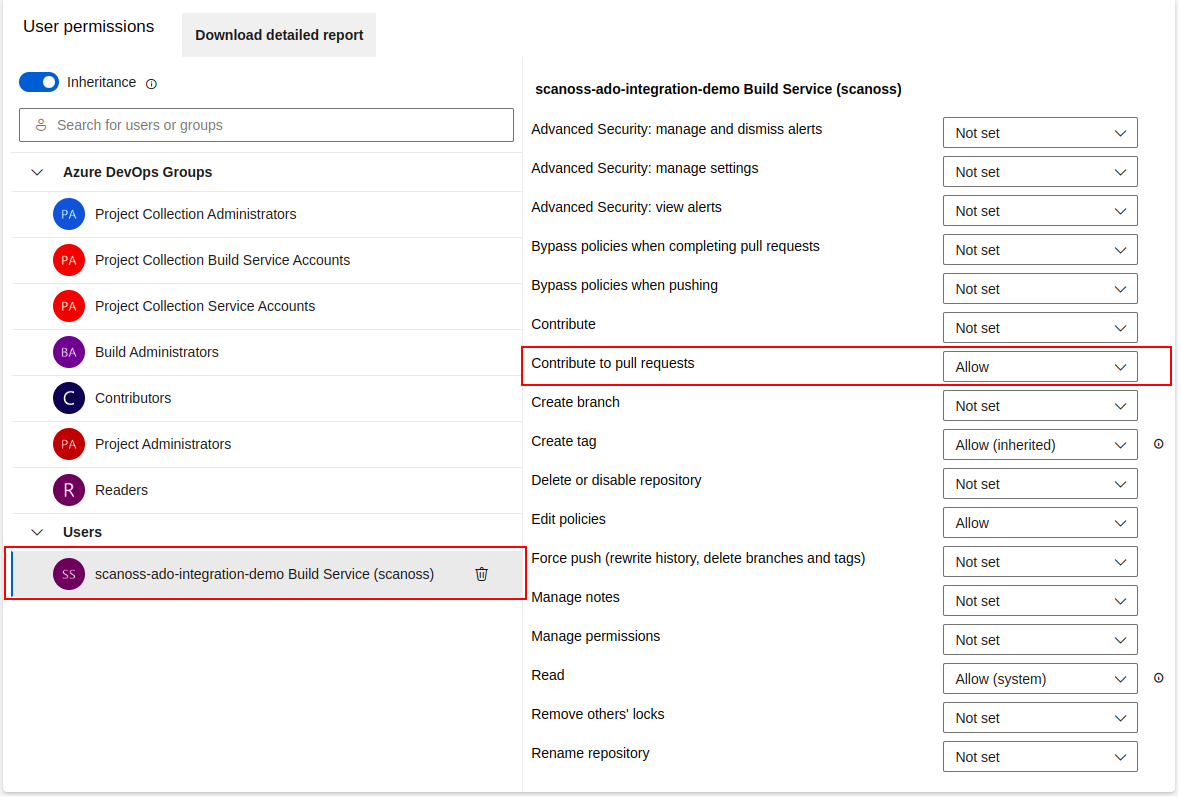
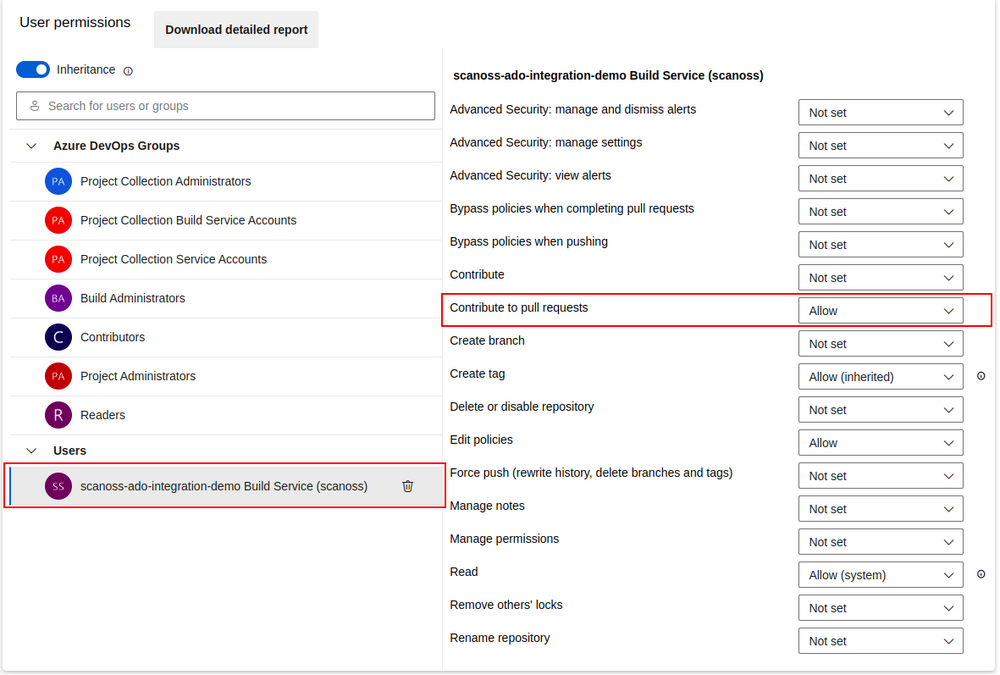
Fixes documentation

diff --git a/OVERVIEW.md b/OVERVIEW.md
@@ -13,10 +13,15 @@ Open the repository settings section:
   2. Repositories
   3. Select the repository
 
+![Ado-setup-repository-settings](https://github.com/scanoss/integration-azure-DevOps/blob/main/.github/assets/ADO-setup-1.png?raw=true)
+
 A) Allow Pull Request Contribute Access:
   1. Open the 'Security' tab.
   2. Select the repository Build Service account under the 'Users' group.
   3. Allow "Contribute to pull requests".
+
+![Ado-setup-pull-request-contribution-access](https://github.com/scanoss/integration-azure-DevOps/blob/main/.github/assets/ADO-setup-2.png?raw=true)
+
 
 B) Add Build Validation Policy to the integration branch:
   1. Open the 'Policies' tab.
@@ -28,8 +33,13 @@ B) Add Build Validation Policy to the integration branch:
       4. Build Expiration: Select your option.
       5. Set a display name.
 
+![Ado-setup-build-validation-policy](https://github.com/scanoss/integration-azure-DevOps/blob/main/.github/assets/ADO-setup-3.png?raw=true)
+
+
+
+
 ## Pipeline
-To begin using this task, you'll need to set up a basic Pipeline and define a task within it:
+A basic pipeline should be set and the SCANOSS task should be included within it:
 
 ```yaml
 trigger: none
